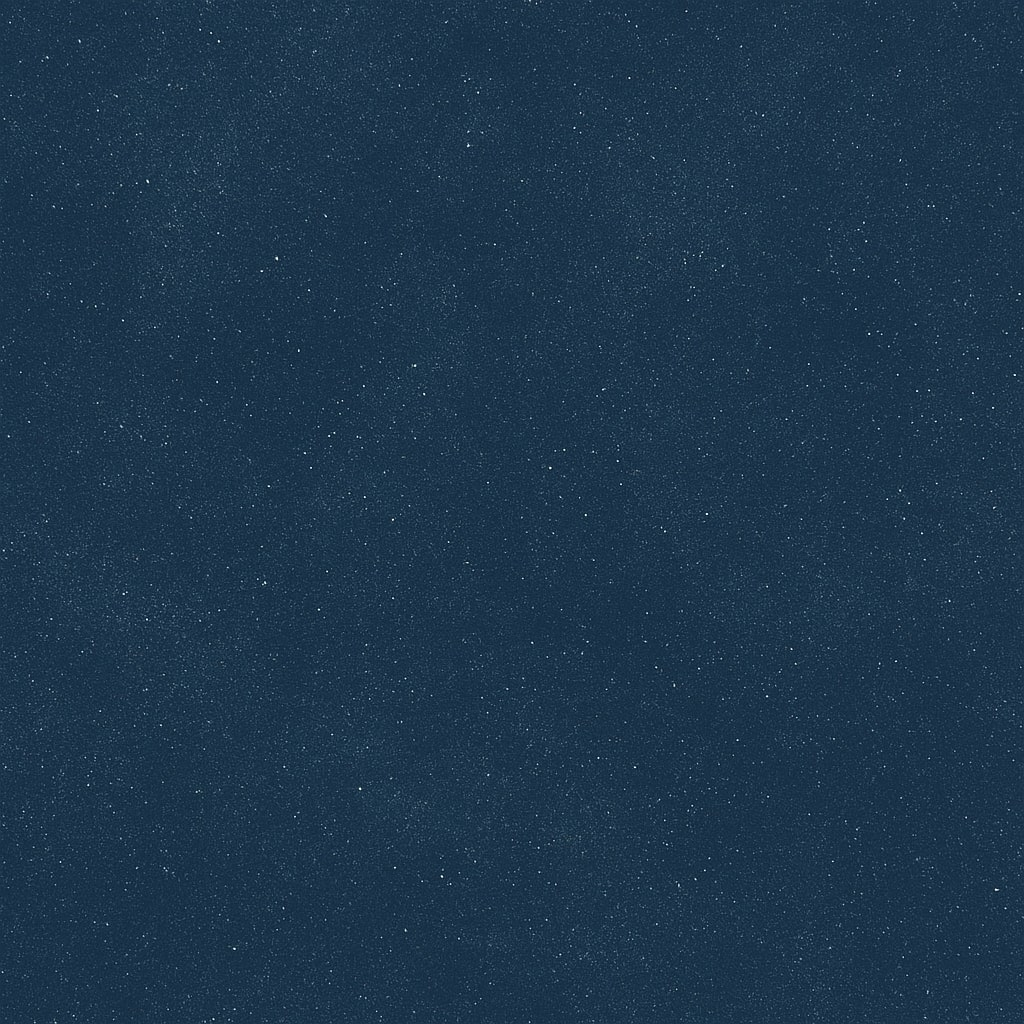
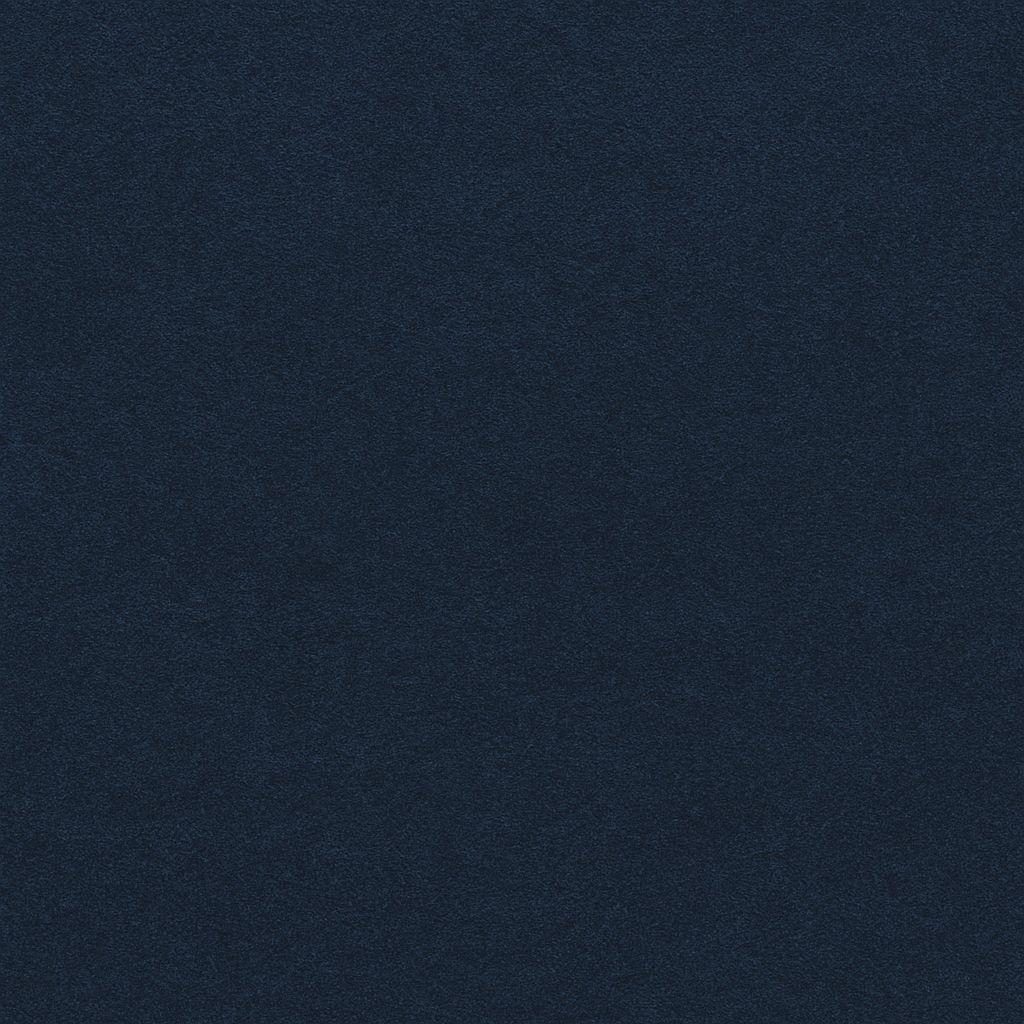
Improve sidebar and background
Sidebar is now located on the right for blog-styling purposes, with a new
navigation list present. The background is now more darker for easy
readability.

diff --git a/index.html b/index.html
@@ -3,7 +3,7 @@
   <head>
     <meta charset="UTF-8" />
     <meta name="viewport" content="width=device-width, initial-scale=1.0" />
-    <title>João Iacillo - Bem vindo ao meu espaço</title>
+    <title>João Iacillo - Bem vindo!</title>
     <link rel="icon" type="image/png" href="/favicon.png" />
     <link
       rel="stylesheet"
@@ -25,74 +25,95 @@
   <body data-bs-theme="dark" data-page="home">
     <div
       class="container d-flex flex-column min-vh-100 py-md-3 text-center text-md-start">
-      <div class="row flex-grow-1">
+      <div class="row flex-lg-row-reverse flex-grow-1">
         <!-- #region Sidebar -->
-        <div class="col-md-3 bg-black rounded border shadow slide">
-          <aside>
-            <header class="pt-5 pb-1 px-3 text-center">
-              <div class="mb-1">
-                <img
-                  src="/src/imgs/logo.png"
-                  alt="corgi"
-                  class
-                  style="max-width: 64px" />
-                <h1
-                  class="main-title d-inline-block"
-                  style="
+        <aside class="col-lg-3 mt-3">
+          <header
+            class="px-3 pt-4 pb-2 mb-1 bg-black border rounded-top text-center">
+            <img
+              src="/src/imgs/profile.jpg"
+              alt="corgi"
+              class="rounded-circle border d-block mx-auto mb-2"
+              width="100" />
+
+            <h1
+              class="main-title d-inline-block mb-3"
+              style="
                     font-family: 'Pixelify Sans', sans-serif;
                     font-weight: bold;
                     font-size: 1.6rem;
                   ">
-                  João Iacillo
-                </h1>
-              </div>
+              João Iacillo
+            </h1>
 
-              <ul
-                class="list-unstyled mb-4 px-1 d-flex flex-wrap gap-2 small justify-content-center">
-                <li>
-                  <a href="https://github.com/joaoiacillo"
-                    class="link-light">GitHub</a>
-                </li>
-                <li>
-                  <a href="https://dev.to/iachilo"
-                    class="link-light">Blog/Dev.to</a>
-                </li>
-                <li>
-                  <a href="https://iachilo.itch.io/"
-                    class="link-light">Itch.io</a>
-                </li>
-                <li>
-                  <a href="mailto:joao@iacillo.dev.br"
-                    class="link-light">E-mail</a>
-                </li>
-                <li>
-                  <a href="https://github.com/joaoiacillo"
-                    class="link-light">LinkedIn</a>
+            <ul
+              class="list-unstyled d-flex justify-content-center align-items-center gap-2 small">
+              <li>
+                <a href="https://github.com/joaoiacillo" class="link-light">
+                  <i class="bi bi-github"></i>
+                </a>
+              </li>
+              <li>
+                <a href="https://dev.to/iachilo"
+                  class="link-light">
+                  <img src="/src/imgs/logos/dev.png" width="20">
+                </a>
+              </li>
+              <li>
+                <a href="https://iachilo.itch.io/"
+                  class="link-light">
+                  <img src="/src/imgs/logos/itch-io.png" width="20"
+                    style="filter: invert(1);">
+                </a>
+              </li>
+              <li>
+                <a href="https://bsky.app/profile/iacillo.dev.br"
+                  class="link-light me-1">
+                  <img src="/src/imgs/logos/bsky.png" width="16"
+                    style="filter: brightness(0) invert(1);">
+                </a>
+              </li>
+              <li>
+                <a href="mailto:joao@iacillo.dev.br"
+                  class="link-light">
+                  <i class="bi bi-envelope-at-fill"></i>
+                </a>
+              </li>
+            </ul>
+          </header>
+
+          <section class="bg-black border rounded-bottom mb-3 p-3">
+            <nav class="main-nav">
+              <ul class="list-unstyled m-0">
+                <li
+                  class="d-flex align-items-center bg-secondary-subtle gap-2 rounded py-2 ps-3 fw-bold text-white">
+                  <i class="bi bi-house-fill"></i>
+                  Início
                 </li>
               </ul>
+            </nav>
+          </section>
 
-              <div class="alert alert-warning small p-1">
-                <i class="bi bi-exclamation-triangle me-2"></i>
-                Ainda em construção.
-              </div>
-            </header>
+          <div class="alert alert-warning small p-2 text-center">
+            <i class="bi bi-exclamation-triangle me-2"></i>
+            Ainda em construção.
+          </div>
 
-            <section class="p-3">
-              <p class="mb-0 fw-bold text-muted">
-                <i class="bi bi-box-seam me-1"></i> Utilitários
-              </p>
+          <section class="p-3">
+            <p class="mb-0 fw-bold text-muted">
+              <i class="bi bi-box-seam me-1"></i> Utilitários
+            </p>
 
-              <ul class="small" style="list-style-type: none; padding: 0">
-                <li>
-                  <a
-                    href="https://tools.iacillo.dev.br/linux/desktop-entry/"
-                    class="link-light">Linux
-                    Desktop Entry Generator</a>
-                </li>
-              </ul>
-            </section>
-          </aside>
-        </div>
+            <ul class="small" style="list-style-type: none; padding: 0">
+              <li>
+                <a
+                  href="https://tools.iacillo.dev.br/linux/desktop-entry/"
+                  class="link-light">Linux
+                  Desktop Entry Generator</a>
+              </li>
+            </ul>
+          </section>
+        </aside>
         <!-- #endregion -->
 
         <!-- #region Page Content -->
